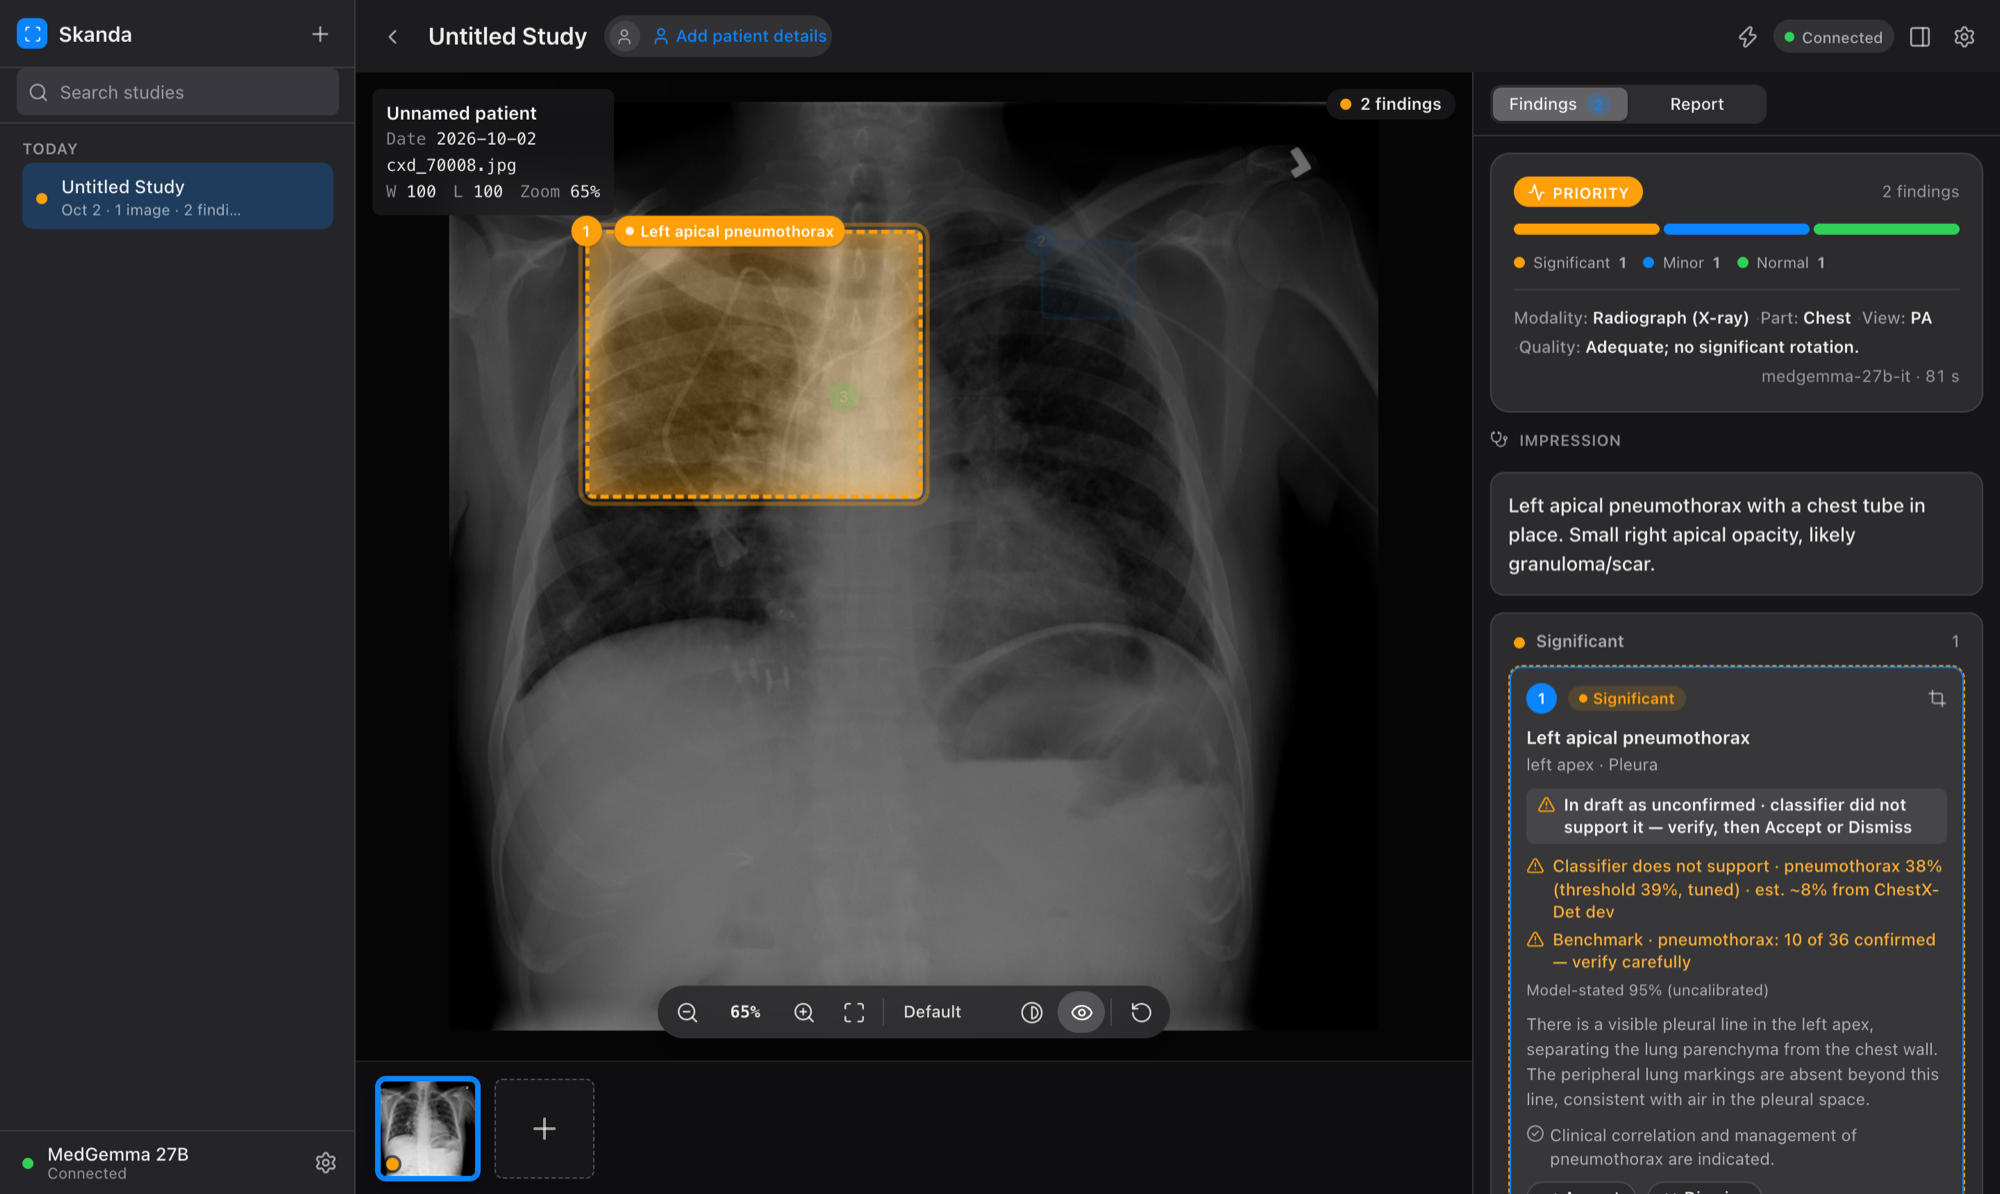
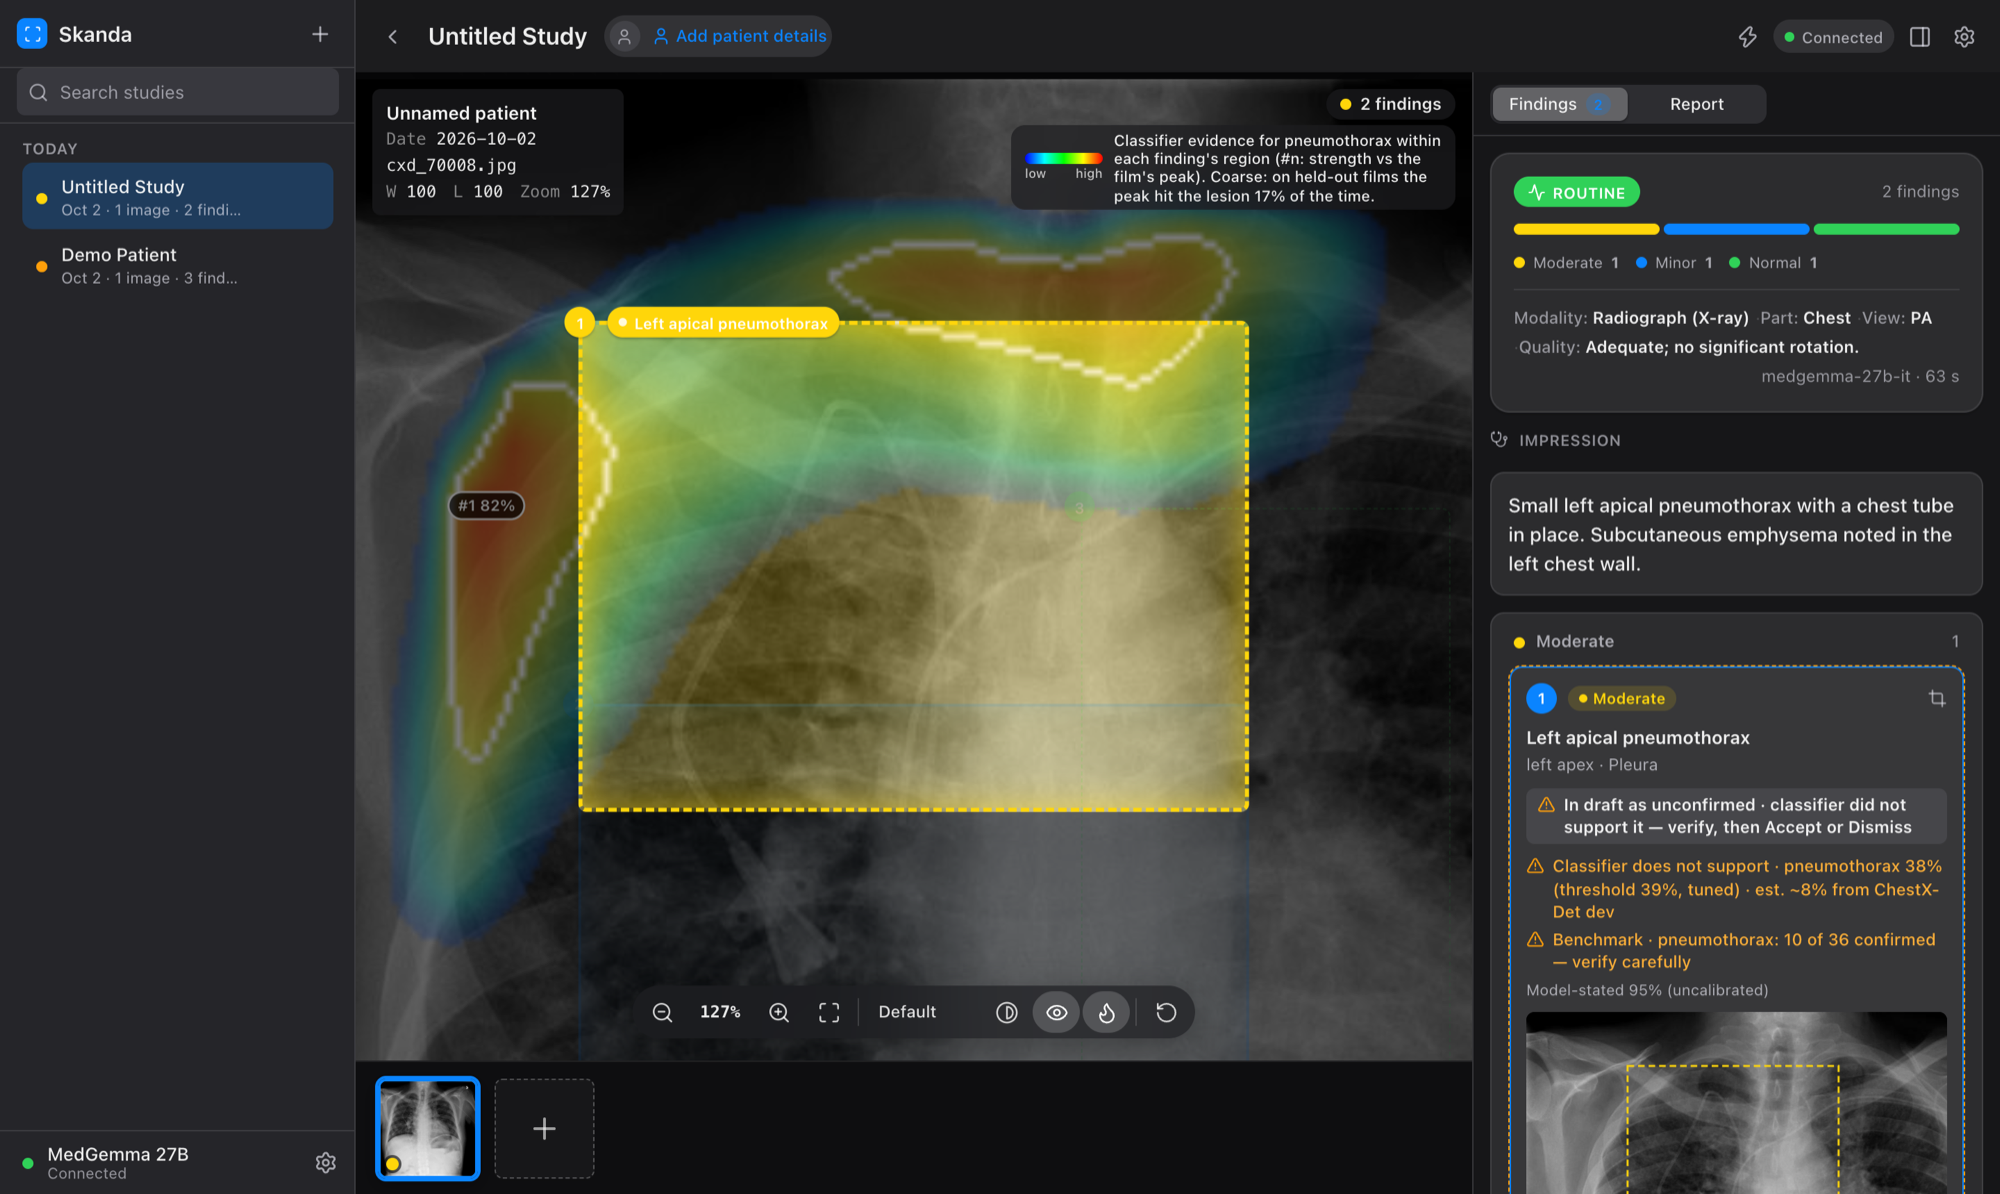
README: recapture all screenshots from the current UI
Hero, cross-check, finding detail, zoom-to-finding, report, print preview,
progress and light mode now show the per-finding heatmaps and current
cards; captions describe what each capture shows.

diff --git a/README.md b/README.md
@@ -19,9 +19,9 @@ cross-checked by an independent classifier, and drafted into a signable radiolog
 
 <br>
 
-<img src="docs/screenshots/hero-dark.png" alt="Skanda Radiology in dark mode: a chest X-ray with five MedGemma findings boxed on the image and the findings panel showing priority, impression and classifier evidence" width="100%">
+<img src="docs/screenshots/hero-dark.png" alt="Skanda Radiology in dark mode: a chest X-ray with three MedGemma findings boxed and a classifier heatmap over the patient's left lung" width="100%">
 
-<sub>A ChestX-Det test film (radiologists: consolidation in both lungs, right effusion). MedGemma reads it in 79 s as <i>priority</i>: left lower lobe consolidation, an effusion, perihilar markings and two right-sided opacities. Each card shows the classifier's probability against its tuned threshold and how often that finding type was right on held-out films. MedGemma named the effusion left-sided where radiologists marked it right, and its boxes do not follow its own laterality: boxes are approximate (see <a href="#-benchmark">benchmark</a>).</sub>
+<sub>A ChestX-Det test film (radiologists: consolidation in both lungs, right effusion). MedGemma reads it in 55 s as <i>priority</i>: left lower lobe consolidation, a left pleural effusion and perihilar markings. The heatmap shows, per finding, where the independent classifier found evidence within that finding's region: the opacity findings peak in the patient's left lung (100%), while the effusion box has little effusion evidence (32%). MedGemma calls the effusion left-sided but draws its box over the right base, where radiologists marked it: names and boxes are approximate (see <a href="#-benchmark">benchmark</a>).</sub>
 
 </div>
 
@@ -53,28 +53,28 @@ Real runs of the current app on this Mac (Oct 2026), using ChestX-Det test films
 <table>
 <tr>
 <td width="50%" valign="top">
-<img src="docs/screenshots/cross-check.png" alt="Normal film with a false left apical pneumothorax drawn dashed and marked unconfirmed">
-<p><b>Cross-check flags a false alarm.</b> Radiologists labelled this film normal (ChestX-Det does not label tubes). MedGemma calls a left apical pneumothorax at 95% self-stated confidence. The classifier gives 38%, under the dev-tuned 39% threshold, so the box is dashed and the card says <i>in draft as unconfirmed — verify</i>, next to the held-out rate: 10 of 36 pneumothorax calls were right.</p>
+<img src="docs/screenshots/cross-check.png" alt="Normal film zoomed onto a false left apical pneumothorax drawn dashed and marked unconfirmed, with its heatmap">
+<p><b>Cross-check flags a false alarm.</b> Radiologists labelled this film normal (ChestX-Det does not label tubes). MedGemma calls a left apical pneumothorax at 95% self-stated confidence. The classifier gives 38%, under the dev-tuned 39% threshold, so the box is dashed, the card says <i>in draft as unconfirmed — verify</i>, and the study stays <i>routine</i>; the card also shows that only 10 of 36 pneumothorax calls were right on held-out films. Selecting it zooms in and shows its heatmap.</p>
 </td>
 <td width="50%" valign="top">
 <img src="docs/screenshots/finding-detail.png" alt="Expanded finding card with classifier evidence, benchmark rate and accept/dismiss buttons">
-<p><b>Evidence on every finding.</b> Expanded card: classifier probability vs its tuned threshold and calibrated estimate, the held-out confirmation rate for that finding type, the model's own (uncalibrated) confidence, and Accept / Dismiss.</p>
+<p><b>Evidence on every finding.</b> Expanded card for the effusion: classifier probability vs its tuned threshold and calibrated estimate, the held-out confirmation rate for that type (12 of 20, verify carefully), the model's own uncalibrated confidence, a close-up of its box, and Accept / Dismiss.</p>
 </td>
 </tr>
 <tr>
 <td width="50%" valign="top">
 <img src="docs/screenshots/report.png" alt="Report tab with the AI-drafted structured report">
-<p><b>Draft report.</b> Drafted in ~40 s from the reviewed findings and the clinical indication. Pinned "unsigned AI draft" bar; every section is editable and the draft goes stale when its inputs change.</p>
+<p><b>Draft report.</b> Drafted in ~50 s from the reviewed findings and the clinical indication, with the heatmaps still on the film. Pinned "unsigned AI draft" bar; every section is editable and the draft goes stale when its inputs change.</p>
 </td>
 <td width="50%" valign="top">
 <img src="docs/screenshots/print-preview.png" alt="A4 print preview of the radiology report with annotated key image">
-<p><b>Printable report.</b> A4 preview with patient block, annotated key image and legend. The exported PDF of this study is in <a href="docs/sample-report.pdf"><code>docs/sample-report.pdf</code></a> (3 pages: findings, impression, recommendations, AI findings table with held-out rates, unsigned-draft seal and disclaimer).</p>
+<p><b>Printable report.</b> A4 preview with patient block, annotated key image and legend, followed by one classifier heatmap per finding. An exported example is in <a href="docs/sample-report.pdf"><code>docs/sample-report.pdf</code></a> (findings, impression, recommendations, per-finding heatmaps, AI findings table with held-out rates, unsigned-draft seal and disclaimer).</p>
 </td>
 </tr>
 <tr>
 <td width="50%" valign="top">
 <img src="docs/screenshots/zoom-to-finding.png" alt="Viewer zoomed onto a selected finding with a close-up crop on its card">
-<p><b>Zoom to finding.</b> Selecting a finding zooms and centres the viewer on its box (here 65% → 148%), and the expanded card shows a close-up. Esc returns to the whole film.</p>
+<p><b>Zoom to finding.</b> Selecting a finding zooms and centres the viewer on its box (here the effusion, 65% → 132%) and shows only that finding's heatmap; the expanded card shows a close-up. Esc returns to the whole film.</p>
 </td>
 <td width="50%" valign="top">
 <img src="docs/screenshots/heatmap.png" alt="Classifier heatmap on the X-ray: a red hotspot outlined in white over the patient's left lung, labelled with finding numbers">
@@ -84,11 +84,11 @@ Real runs of the current app on this Mac (Oct 2026), using ChestX-Det test films
 <tr>
 <td width="50%" valign="top">
 <img src="docs/screenshots/progress.png" alt="Analysis in progress with staged progress bar">
-<p><b>Staged progress.</b> A read takes ~55–90 s; the panel shows the current stage and an estimate, and survives switching images.</p>
+<p><b>Staged progress.</b> A read takes ~55–90 s; the panel shows the current stage (reading → lung pattern → cross-check) and an estimate, and survives switching images.</p>
 </td>
 <td width="50%" valign="top">
 <img src="docs/screenshots/findings-light.png" alt="The same study in light mode">
-<p><b>Light mode.</b> Same study; unconfirmed findings keep a dashed outline in both themes so the meaning survives without colour.</p>
+<p><b>Light mode.</b> Same study and heatmaps; unconfirmed findings keep a dashed outline in both themes so the meaning survives without colour.</p>
 </td>
 </tr>
 </table>
